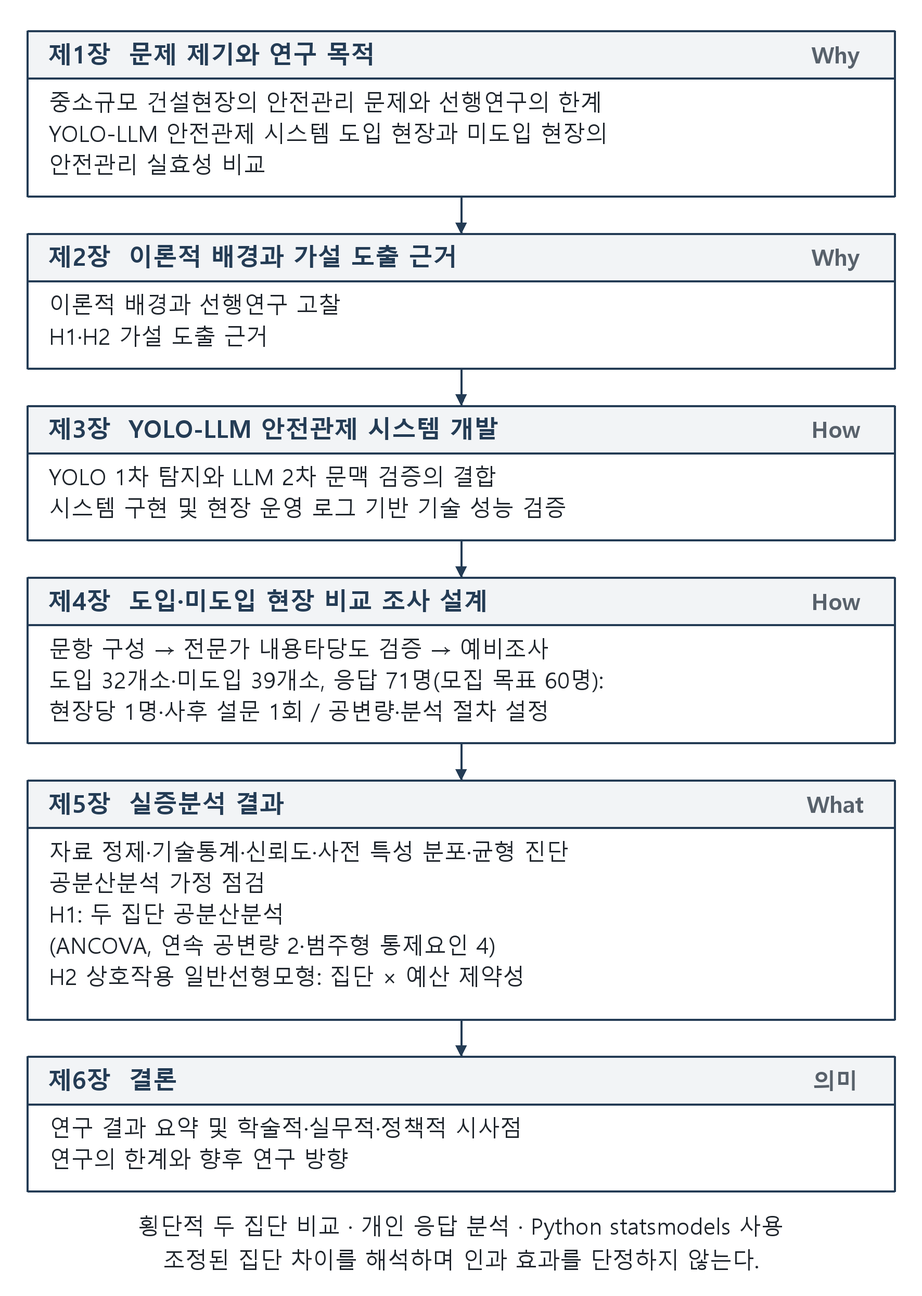
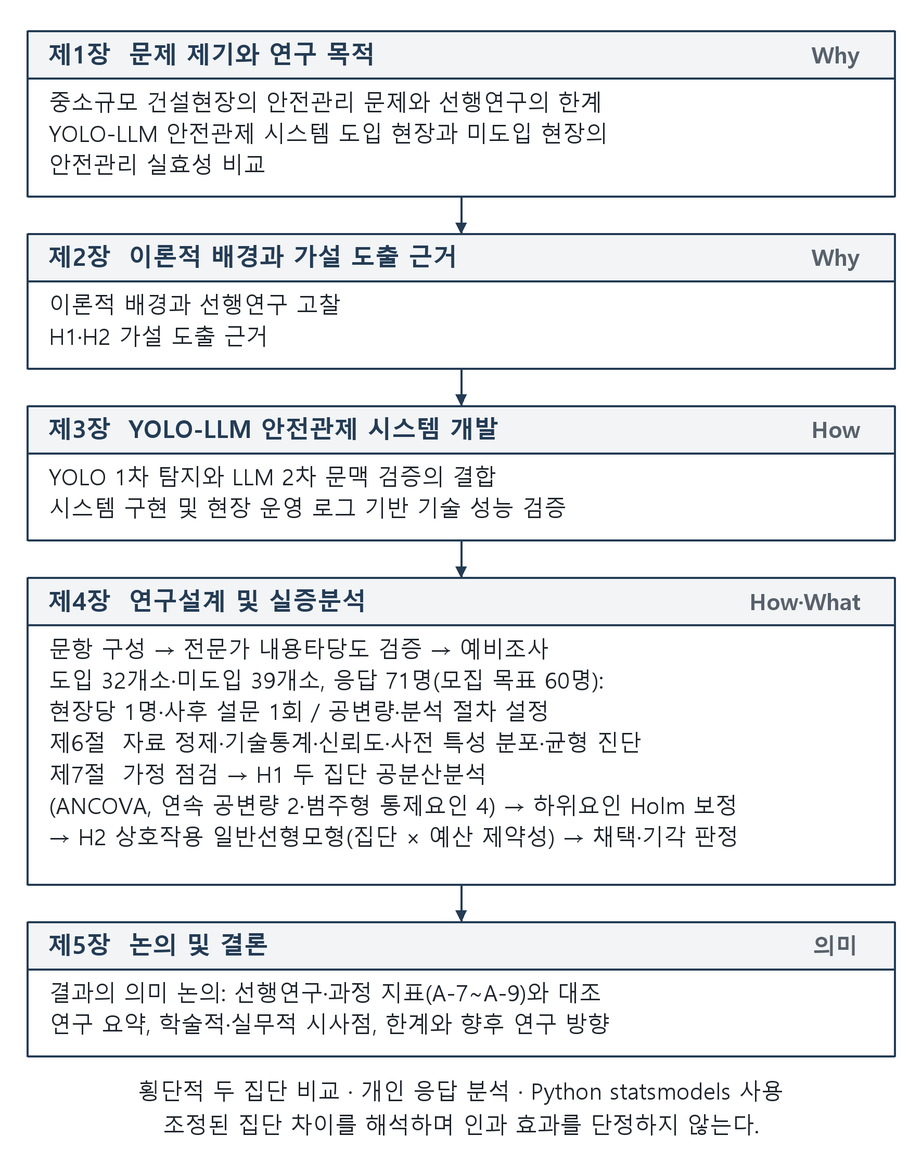
2026-10-24 지도 반영 4단계: 의미 논의 3건을 4장 제7절→5장 제1절로 이동, 결론 4,609→1,816자 압축, 4장 도입문 교체, 그림 1-1 5장 구조 재생성
- 04: 민감도 분석 원평균 대조·천장효과 추정·A-9 설계상 무차이 설명을 잘라내고 수치·채택 판정·통계 해석만 남김
- 05 제1절: 이동 3건을 기존 논의와 합쳐 두괄식 재배열(새 주장·인용 없음), 제2절 결론을 5요소 5문단으로 압축(Shadish·Podsakoff 인용, 시간적 우선성 한계 유지)
- figures/research: generate_research_figures.py 흐름도 5장 구조(4장 제6·7절, 5장 논의·결론), PNG·SVG 재생성
- 계획 문서 체크리스트 갱신. 남은 것: 단계 6 hwpx 전체 재조립(별도 지시)

Changed region(s): [[0.031, 0.0, 0.9622, 0.9892], [0.8691, 0.5874, 0.9312, 0.6492]]

diff --git a/01.docs/figures/research/generate_research_figures.py b/01.docs/figures/research/generate_research_figures.py
@@ -49,7 +49,7 @@ class Figure:
         self.im.save(OUT/(self.name+'.png'),dpi=(300,300))
 
 def flow():
-    f=Figure('figure_1-1_research_flow',2110,'연구의 흐름도')
+    f=Figure('figure_1-1_research_flow',1890,'연구의 흐름도')
     steps=[
       (50,270,'제1장  문제 제기와 연구 목적','Why',[
        '중소규모 건설현장의 안전관리 문제와 선행연구의 한계',
@@ -61,28 +61,26 @@ def flow():
       (660,220,'제3장  YOLO-LLM 안전관제 시스템 개발','How',[
        'YOLO 1차 탐지와 LLM 2차 문맥 검증의 결합',
        '시스템 구현 및 현장 운영 로그 기반 기술 성능 검증']),
-      (940,270,'제4장  도입·미도입 현장 비교 조사 설계','How',[
+      (940,500,'제4장  연구설계 및 실증분석','How·What',[
        '문항 구성 → 전문가 내용타당도 검증 → 예비조사',
        '도입 32개소·미도입 39개소, 응답 71명(모집 목표 60명):',
-       '현장당 1명·사후 설문 1회 / 공변량·분석 절차 설정']),
-      (1270,390,'제5장  실증분석 결과','What',[
-       '자료 정제·기술통계·신뢰도·사전 특성 분포·균형 진단',
-       '공분산분석 가정 점검',
-       'H1: 두 집단 공분산분석',
-       '(ANCOVA, 연속 공변량 2·범주형 통제요인 4)',
-       'H2 상호작용 일반선형모형: 집단 × 예산 제약성']),
-      (1720,220,'제6장  결론','의미',[
-       '연구 결과 요약 및 학술적·실무적·정책적 시사점',
-       '연구의 한계와 향후 연구 방향'])]
+       '현장당 1명·사후 설문 1회 / 공변량·분석 절차 설정',
+       '제6절  자료 정제·기술통계·신뢰도·사전 특성 분포·균형 진단',
+       '제7절  가정 점검 → H1 두 집단 공분산분석',
+       '(ANCOVA, 연속 공변량 2·범주형 통제요인 4) → 하위요인 Holm 보정',
+       '→ H2 상호작용 일반선형모형(집단 × 예산 제약성) → 채택·기각 판정']),
+      (1500,220,'제5장  논의 및 결론','의미',[
+       '결과의 의미 논의: 선행연구·과정 지표(A-7∼A-9)와 대조',
+       '연구 요약, 학술적·실무적 시사점, 한계와 향후 연구 방향'])]
     for i,(y,h,title,tag,lines) in enumerate(steps):
         f.box(45,y,1410,h)
         f.box(45,y,1410,78,PALE)
         f.text(78,y+53,title,40,True,color=NAVY)
-        f.text(1360,y+53,tag,36,True,color=GRAY,center=True)
+        f.text(1360 if len(tag)<=4 else 1310,y+53,tag,36,True,color=GRAY,center=True)
         for j,t in enumerate(lines): f.text(80,y+130+j*51,t)
         if i<len(steps)-1: f.line([(750,y+h),(750,steps[i+1][0])],arrow=True)
-    f.text(750,2010,'횡단적 두 집단 비교 · 개인 응답 분석 · Python statsmodels 사용',36,center=True)
-    f.text(750,2065,'조정된 집단 차이를 해석하며 인과 효과를 단정하지 않는다.',36,center=True)
+    f.text(750,1790,'횡단적 두 집단 비교 · 개인 응답 분석 · Python statsmodels 사용',36,center=True)
+    f.text(750,1845,'조정된 집단 차이를 해석하며 인과 효과를 단정하지 않는다.',36,center=True)
     f.save()
 
 def model():

diff --git a/01.docs/05_논의및결론.md b/01.docs/05_논의및결론.md
@@ -6,11 +6,15 @@
 
 H1의 집단 간 조정 평균 차이는 도입 집단이 미도입 집단보다 0.42점 높은 것으로 나타나(95% CI [0.06, 0.77]) H1은 지지되었으나, 신뢰구간 하한이 0에 가까워 차이의 크기는 불확실하다. 이동건(2024)과 Chong et al.(2023)의 기술 수용의도 연구는 도입 조건을 설명할 뿐이므로, 본 연구는 이를 실제 업무 성과를 직접 입증한 근거로 쓰지 않는다. 본 결과는 스마트 건설기술 활용과 안전성과의 관련성을 보고한 황병복(2026), 중소규모 적용 현장과 일반 현장을 대비해 사고예방 가능성을 보고한 류정·박인선(2025)과 방향이 같다. 다만 두 연구는 연구 대상(철도 건설현장·13개 중소규모 적용 현장과 본 연구의 기관 산하 조사대상 건설현장), 독립변수(활용 수준과 설치·정상 운용), 결과변수(안전성과·재해율과 개인 지각 업무 수준)가 본 연구와 다르다. 또한 두 연구와 달리 본 연구의 차이는 작고 불확실하며, 그 이유는 운용·측정·표본의 세 측면에서 찾을 수 있다.
 
-운용 측면에서 도입 응답자 32명 가운데 담당자 부재 시 위험을 자동 알림으로 알고 발생 직후 인지한다고 답한 응답자는 5명뿐이어서, 많은 도입 현장에서 시스템이 실제 인지 경로로 작동하지 않았을 수 있다. 측정 측면에서 Y는 현재 업무 수준에 대한 개인 지각이며, 대응 신속성·위험 통제력은 도입 집단의 5점 응답 비율이 높아 차이가 압축되었을 수 있다. 표본 측면에서 집단은 응답자가 선택한 현장 구분이며 응답과 현장을 개별 대조한 기록이 없고, 여성 응답자가 미도입 집단에만 있는 등 일부 범주의 비교가 외삽에 의존한다. ‘A-9 없음 × H1 있음’ 조합에서는 <표 4-6>에 따라 도입 집단의 호의 응답 가능성을 먼저 점검해야 한다. 도입 집단의 D 응답은 알림 전달 신속성(D-7)은 높게, 정상 작업 오탐이 드물다는 인식(D-6)은 가장 낮게 평가하여 시스템을 일률적으로 호의적으로 평가하지는 않았다. 그러나 시스템이 개입하는 인지 단계에서 발생 직후 알림으로 안다는 도입 응답자는 5명뿐이고 나머지는 다음 순찰 때(11명)나 다른 사람의 보고(12명)로 알며, 미도입 현장은 대부분(29명) 작업자·반장의 보고로 알기 때문에 두 집단의 인지 경로가 ‘알림 대 순찰’로 갈리지 않았다. 따라서 H1의 차이를 알림을 통한 인지 과정의 차이로 연결할 근거는 약하며 H1은 조건부로 해석해야 한다. A-9의 무차이는 시스템 밖 단계의 결과이므로 이 판단의 근거로 삼지 않는다. 도입 집단의 안전관리 실효성 점수가 높게 나타나더라도 그 차이는 관측된 여섯 특성을 조정한 뒤 남은 관련성이다. 척도 민감도·신뢰도, 공사비 구간별 규모 분포, 집단 불균형과 선정 편향, 기존 영상 인프라의 차이, 도입 기간과 알림 노출도 추가 설명이 될 수 있으나, 자료로 확인하지 않은 설명을 원인으로 확정하지 않는다. 다른 스마트 안전장비는 조사 대상 전 현장에 없음을 연구자가 확인하였으므로, 집단 차이가 다른 장비의 보유 차이에서 비롯되었을 가능성은 배제할 수 있다. 미도입 집단에 CCTV가 없는 현장이 섞여 있으므로 집단 차이를 기존 인프라와 LLM 추가 기능의 기여로 나누어 해석하지 않는다.
+운용 측면에서 도입 응답자 32명 가운데 담당자 부재 시 위험을 자동 알림으로 알고 발생 직후 인지한다고 답한 응답자는 5명뿐이어서, 많은 도입 현장에서 시스템이 실제 인지 경로로 작동하지 않았을 수 있다. 측정 측면에서 Y는 현재 업무 수준에 대한 개인 지각이며, 일부 하위요인은 천장효과로 차이가 압축되었을 수 있다. 표본 측면에서 집단은 응답자가 선택한 현장 구분이며 응답과 현장을 개별 대조한 기록이 없고, 여성 응답자가 미도입 집단에만 있는 등 일부 범주의 비교가 외삽에 의존한다.
+
+다섯 하위요인에서는 모두 도입 집단의 조정 평균이 높게 나타났으나, Holm 보정 후 유의한 영역은 위험 통제력(0.53점, 95% CI [0.18, 0.88])뿐이었다. 김현수(2026)의 관제 연구에서 다룬 오탐과 사건 검토 시간은 대응 및 업무 부담과, 이창남(2025)의 원격 모니터링 연구는 원격 파악·순찰부담 경감과 연결해 비교할 수 있지만, 본 연구의 자기보고 점수와 동일한 측정치는 아니다. Cvach(2012)의 경보 피로도 논의 역시 다른 업무 환경의 경보 대응 메커니즘을 설명하는 배경이다. 원격 파악과 순찰부담 경감의 차이는 원격 모니터링이 관리자의 원격 위험 인지와 순찰 의존도 경감을 지원한다는 이창남(2025)과 방향이 같지만, 다중 검정을 고려하면 통계적으로 확인되지 않았다. 김현수(2026)가 보고한 사건 검토 시간 단축과 불필요 출동 감소는 조기인지·대응 신속성과 연결되는데, 본 연구에서 두 영역의 차이는 작았다. 그 이유로는 두 영역이 단일 문항이라는 점, 지시 전달 소요시간(A-9)에서 두 집단의 분포가 비슷했다는 점, 그리고 천장효과를 들 수 있다. 대응 신속성과 위험 통제력은 도입 집단의 5점 응답 비율이 높아(<표 4-11>; 대응 신속성은 37.5%) 천장효과로 차이가 작게 추정되었을 수 있다. 또한 도입 응답자는 정상 작업 오탐이 드물다는 문항(D-6)을 D 문항 가운데 가장 낮게 평가하여, 오탐 억제가 확인 부담의 경감으로 충분히 이어지지 않았을 가능성도 남는다. 차이가 가장 뚜렷한 위험 통제력은 황병복(2026)과 류정·박인선(2025)이 다룬 안전성과·재해율과 같은 결과 측면에 가깝지만, 이 영역도 통제 조치의 실제 기록으로 확인되지 않은 자기보고라는 한계가 있다. 하위요인별 결과는 <표 2-2>의 시스템 기능–담당자 업무–안전관리 실효성 하위요인 연결에 따라 관련 기능의 확인 자료와 함께 검토하되, 그 연결이 B문항의 기능 측정을 뜻하지는 않는다. 원격 파악이나 순찰부담 경감의 지각 차이만으로 안전관리 인력의 대체를 주장할 수 없다.
+
+과정 지표와 대조하면 본 결과는 <표 4-6>의 ‘A-9 없음 × H1 있음’ 조합에 해당하며, 이 조합에서는 도입 집단의 호의 응답 가능성을 먼저 점검해야 한다. 다만 A-9는 관리자가 위험을 안 뒤 현장에 지시를 전달하는 단계를 묻는 문항이며, 본 시스템은 경보를 관리자에게 보낼 뿐 지시 전달 수단을 제공하지 않으므로 이 단계에서 집단 차이가 나타날 설계상 근거가 없다. 따라서 A-9의 ‘없음’은 시스템 효과가 없다는 증거가 아니라 예상된 결과이며, H1을 조건부로 해석하는 근거로도 삼지 않는다. 호의 응답 점검은 사전 지정 절차에 따라 보수적으로 수행한다. 도입 집단의 D 응답은 알림 전달 신속성(D-7)은 높게, 정상 작업 오탐이 드물다는 인식(D-6)은 가장 낮게 평가하여 시스템을 일률적으로 호의적으로 평가하지는 않았다. 그러나 시스템이 개입하는 인지 단계에서 발생 직후 알림으로 안다는 도입 응답자는 5명뿐이고 나머지는 다음 순찰 때(11명)나 다른 사람의 보고(12명)로 알며, 미도입 현장은 대부분(29명) 작업자·반장의 보고로 알기 때문에 두 집단의 인지 경로가 ‘알림 대 순찰’로 갈리지 않았다. 또한 제4장 제7절 제2항의 민감도 분석과 같은 완전사례에서 시스템 경로가 작동한 도입 현장 5곳의 안전관리 실효성 원평균은 3.95점, 작동하지 않은 27곳은 4.03점으로, 시스템이 실제 인지 경로로 작동한 현장이 더 높게 평가하지는 않았다. 따라서 H1의 집단 차이를 알림 경로의 작동으로 설명할 근거는 약하며, 이 점이 H1을 조건부로 해석하는 직접적인 이유이다.
+
+도입 집단의 안전관리 실효성 점수가 높게 나타나더라도 그 차이는 관측된 여섯 특성을 조정한 뒤 남은 관련성이다. 척도 민감도·신뢰도, 공사비 구간별 규모 분포, 집단 불균형과 선정 편향, 기존 영상 인프라의 차이, 도입 기간과 알림 노출도 추가 설명이 될 수 있으나, 자료로 확인하지 않은 설명을 원인으로 확정하지 않는다. 다른 스마트 안전장비는 조사 대상 전 현장에 없음을 연구자가 확인하였으므로, 집단 차이가 다른 장비의 보유 차이에서 비롯되었을 가능성은 배제할 수 있다. 미도입 집단에 CCTV가 없는 현장이 섞여 있으므로 집단 차이를 기존 인프라와 LLM 추가 기능의 기여로 나누어 해석하지 않는다.
 
 학술적으로는 같은 기관 산하 도입·미도입 현장 관리자를 공통 척도로 비교하여, 사전에 지정한 여섯 특성을 조정한 뒤에도 양(+)의 집단 차이가 남는다는 점을 확인하였다. 실무적으로는 차이가 작고 신뢰구간이 넓으며 시스템 경로가 작동했다고 답한 도입 현장이 적으므로, 시스템을 설치하는 것만으로 업무 수준의 차이를 기대하기보다 알림이 담당자 부재 시 실제 인지 경로가 되는지를 함께 관리해야 함을 보여 준다. 대책·제언은 두 가지이다. 첫째, 도입 현장에서 알림 수신 담당자와 확인·조치 절차를 지정하고, 자동 알림을 주된 인지 경로로 보고하지 않은 현장의 운용 설정과 수신 체계를 점검한다. 둘째, 응답과 현장의 연결 기록과 알림 확인 로그로 표본·측정을 보완한다(제2절).
-
-다섯 하위요인에서는 모두 도입 집단의 조정 평균이 높게 나타났으나, Holm 보정 후 유의한 영역은 위험 통제력(0.53점, 95% CI [0.18, 0.88])뿐이었다. 김현수(2026)의 관제 연구에서 다룬 오탐과 사건 검토 시간은 대응 및 업무 부담과, 이창남(2025)의 원격 모니터링 연구는 원격 파악·순찰부담 경감과 연결해 비교할 수 있지만, 본 연구의 자기보고 점수와 동일한 측정치는 아니다. Cvach(2012)의 경보 피로도 논의 역시 다른 업무 환경의 경보 대응 메커니즘을 설명하는 배경이다. 원격 파악과 순찰부담 경감의 차이는 원격 모니터링이 관리자의 원격 위험 인지와 순찰 의존도 경감을 지원한다는 이창남(2025)과 방향이 같지만, 다중 검정을 고려하면 통계적으로 확인되지 않았다. 김현수(2026)가 보고한 사건 검토 시간 단축과 불필요 출동 감소는 조기인지·대응 신속성과 연결되는데, 본 연구에서 두 영역의 차이는 작았다. 그 이유로는 두 영역이 단일 문항이고 대응 신속성은 도입 집단의 37.5%가 5점에 응답한 천장효과, 그리고 지시 전달 소요시간(A-9)에서 두 집단의 분포가 비슷했다는 점을 들 수 있다. 또한 도입 응답자는 정상 작업 오탐이 드물다는 문항(D-6)을 D 문항 가운데 가장 낮게 평가하여, 오탐 억제가 확인 부담의 경감으로 충분히 이어지지 않았을 가능성도 남는다. 차이가 가장 뚜렷한 위험 통제력은 황병복(2026)과 류정·박인선(2025)이 다룬 안전성과·재해율과 같은 결과 측면에 가깝지만, 이 영역도 통제 조치의 실제 기록으로 확인되지 않은 자기보고라는 한계가 있다. 하위요인별 결과는 <표 2-2>의 시스템 기능–담당자 업무–안전관리 실효성 하위요인 연결에 따라 관련 기능의 확인 자료와 함께 검토하되, 그 연결이 B문항의 기능 측정을 뜻하지는 않는다. 원격 파악이나 순찰부담 경감의 지각 차이만으로 안전관리 인력의 대체를 주장할 수 없다.
 
 H2의 상호작용은 B=0.16(95% CI [-0.26, 0.59])으로 예상과 같은 양(+)의 방향이었으나 신뢰구간이 0을 넓게 포함하여 지지되지 않았다. 자원 제약 조건을 검토하는 배경은 이준호(2024)·윤영석(2025)과 Zhou et al.(2023)의 비용·도입 여건 논의, Zeschky et al.(2011)과 Radjou et al.(2012)의 절약형 혁신 관점이며, 이들 논의는 본 연구의 상호작용을 직접 검증한 선행 결과가 아니다. 추정 방향은 자원이 부족한 조건에서 저비용 구성의 상대적 이점이 클 수 있다는 이들 논의와 어긋나지 않지만, 본 자료는 그 방향을 확인할 만큼 정밀하지 않았다. W는 두 집단 모두 넓은 범위(도입 1.50∼5.00, 미도입 1.00∼5.00)에 퍼져 분산이 부족하지 않았으나, 70명 표본에서 상호작용 추정의 표준오차(0.21)가 추정치보다 커서 상호작용을 검출하기에 검정력이 부족했을 수 있다. 같은 산식으로 이 표본에서 80% 검정력으로 검출할 수 있는 최소 상호작용은 0.59로, 관찰값 0.16의 세 배를 넘는다. 또한 미도입 집단에서만 W가 높을수록 Y가 낮아지는 관계(r=-0.36)가 나타나고 도입 집단에서는 관계가 거의 없어(r=-0.01), 양(+)의 상호작용 추정치는 주로 미도입 집단의 기울기에서 비롯되었다. 미도입 집단에서 관찰된 이 음(−)의 관계는 장비 유무로 설명할 수 없으며, 예산이 빠듯한 현장의 인력·순찰 여력 같은 다른 자원 부족이나 두 척도에 함께 작용한 응답 성향으로 설명할 가능성이 남는다. H2 모형의 이분산 신호도 상호작용의 SE와 p를 근사로 읽게 한다. 사후 점검으로 HC3 강건 표준오차를 적용해도 상호작용은 95% CI [-0.45, 0.78], p=.595로 H2가 지지되지 않는다는 결론은 바뀌지 않았다. 다만 W가 평균과 평균+1SD일 때의 조건부 집단 차이(0.38점·0.56점)는 HC3 기준 95% CI가 각각 [-0.03, 0.79]·[-0.12, 1.24]로 0을 포함하므로, 이 두 수준의 차이도 확정된 결과로 읽지 않는다. 유의하지 않은 결과를 상호작용이 없다는 증거로 단정하지는 않는다. W는 조사 시점의 개인 지각이므로 도입·지원 경험의 사후 영향을 배제하지 못하며, 이 분석은 객관적 예산의 효과나 인과적 조절효과를 추정한 것도 아니다. H2 결과의 의미는 현재 자료로는 저비용 구성이 예산 제약이 큰 현장에서 더 큰 차이와 관련된다는 적용 조건을 도출할 수 없다는 데 있다. 다만 예산 제약 지각이 큰 미도입 현장에서 관찰된 낮은 실효성 지각은 도입 현장에서 나타나지 않았다. 감당 가능한 구성의 상대적 효용을 말하는 절약형 혁신 논리는 대안 장비의 유무를 전제하지 않아 다른 스마트 안전장비가 없는 본 표본에도 적용할 수 있으며, 이에 비추면 이 양상은 저비용 구성이 예산 제약의 영향을 완충할 가능성을 시사하지만, 상호작용이 통계적으로 확인되지 않았고 횡단 자기보고 자료이므로 후속 검증이 필요한 가설이다. 대책·제언으로서 후속 검증에서는 도입 전 객관 예산과 지원 이력을 구분해 측정해야 한다. 현 결과로는 예산 부족 현장의 우선배치나 지원제도 개정 필요성을 도출하지 않는다.
 
@@ -22,22 +26,12 @@ H2의 상호작용은 B=0.16(95% CI [-0.26, 0.59])으로 예상과 같은 양(+)
 
 ## 제2절 결론
 
-본 연구의 목적은 중소규모 건설현장을 위한 YOLO-LLM 안전관제 시스템을 개발하고, 도입 현장과 미도입 현장의 안전관리 실효성 차이를 실증적으로 검증하는 데 있다. 이를 위해 범용 PC와 기존 카메라에서 YOLO 1차 탐지와 LLM 2차 검증을 결합한 시스템을 개발하고, A공사(공공기관) 경기지역본부 산하 두 집단 관리자의 응답을 공분산분석과 상호작용 일반선형모형으로 비교하였다. 응답 71명(도입 32개소·미도입 39개소, 현장당 1명)을 분석하였다.
+본 연구는 중소규모 건설현장을 위해 범용 PC와 기존 카메라에서 YOLO 1차 탐지와 LLM 2차 검증을 결합한 안전관제 시스템을 개발하고, A공사(공공기관) 경기지역본부 산하 도입·미도입 현장 관리자 71명(현장당 1명)의 응답을 공분산분석과 상호작용 일반선형모형으로 비교하였다. 여섯 특성을 조정한 뒤 도입 집단의 안전관리 실효성은 미도입 집단보다 0.42점 높게 나타나 H1은 지지되었으나(95% CI [0.06, 0.77]) 차이의 크기는 불확실하였고, 하위요인 가운데 Holm 보정 후 유의한 영역은 위험 통제력뿐이었다. 예산 제약성 지각에 따른 상호작용(H2)은 B=0.16으로 지지되지 않았으며, 과정 지표인 지시 전달 소요시간(A-9)에는 집단 차이가 없었다.
 
-H1은 도입집단의 안전관리 실효성이 공변량 통제 후에도 미도입집단보다 높을 것이라는 가설이고, H2는 그 차이가 예산 제약성을 크게 지각하는 응답자일수록 클 것이라는 가설이다. 제3장의 운영 로그 평가에서 후보 조건부 2차 필터는 라벨링 가능한 1차 후보 878건 가운데 실제 위험 44건 중 39건을 유지하여 조건부 재현율 0.886, 정확도 0.979를 보였으며, 이 결과는 접근 위험 2종의 1차 후보에 한정된다. RAG 사례 비교에서는 FP가 17건에서 7건으로, TP가 8건에서 6건으로 함께 줄었다. 실증분석에서는 여섯 특성을 조정한 뒤 도입 집단의 안전관리 실효성이 미도입 집단보다 0.42점 높게 나타나 H1은 지지되었다(95% CI [0.06, 0.77], 부분 η²=0.086). 다만 신뢰구간 하한이 0에 가깝고 사후 강건성 점검(제4장 제7절 <표 4-12> 패널 E)에서 p가 .013∼.058로 움직여 차이의 크기는 불확실하다. 다섯 하위요인은 모두 도입 집단이 높은 방향이었으나 Holm 보정 후 유의한 영역은 위험 통제력뿐이었다. H2의 상호작용은 양(+)의 방향이었으나 B=0.16(95% CI [-0.26, 0.59])으로 불확실하여 지지되지 않았다. 과정 지표인 지시 전달 소요시간에는 집단 차이가 없었다(제4장 <표 4-6>의 ‘A-9 없음 × H1 있음’ 조합).
+제1절에서 논의한 바와 같이 이 결과에서 읽을 요점은 세 가지이다. 도입 집단이 높게 나타난 방향은 선행연구와 같지만 차이는 작고 유의수준 경계 근처에 있다. 또한 자동 알림으로 위험을 인지한다는 도입 응답자가 적고 이들 현장이 더 높게 평가하지도 않아, 지각 차이를 알림 경로의 작동으로 설명할 근거가 약하며 호의 응답 가능성을 배제하지 못한다. 그리고 제3장의 기술 지표는 경보 품질의 근거일 뿐이므로 관리자가 지각한 안전관리 실효성과 구분해 읽어야 한다.
 
-이 결과는 기술적 경보 품질과 관리자가 지각한 안전관리 실효성을 구분하여 해석해야 한다. 도입 집단이 높게 나타난 방향은 스마트 건설기술 활용과 안전성과의 관련성을 보고한 황병복(2026), 적용 현장의 사고예방 가능성을 보고한 류정·박인선(2025)과 같다. 그러나 차이의 크기는 작고 불확실하였으며, 도입 응답자 32명 가운데 시스템이 담당자 부재 시 인지 경로로 작동했다고 답한 응답자가 5명뿐이었다. 따라서 이 차이를 알림 경로를 통한 업무 과정의 차이로 연결할 근거는 약하며, 도입 집단의 호의 응답 가능성을 배제하지 못한다. 선행연구와의 상세한 대조와 대안 설명은 제1절에 제시하였다.
+실무적으로는 시스템을 설치하는 것만으로 업무 수준의 차이를 기대하기보다 알림이 실제 인지 경로가 되도록 운용을 관리해야 한다. 도입 현장은 알림 수신 담당자와 담당자 부재 시의 확인·조치 절차를 지정하고, 자동 알림을 주된 인지 경로로 보고하지 않은 현장의 운용 설정과 수신 체계를 점검해야 한다. 차이가 확인된 위험 통제력과 관련해서는 알림 수신 뒤 시정·작업중지 등 통제 조치까지 이어지는 확인·후속 조치 기록부터 점검하는 것이 타당하다. 다만 차이가 작고 비용·운영 자료가 없으므로 인력 대체·비용효율·지원 우선순위는 주장하지 않는다. 학술적으로는 기술 성능과 관리자가 지각한 실효성을 구분하고 운용 실태(A-7·A-8)와 과정 지표(A-9)를 함께 수집하는 비교 틀을 제시하여, 지각 점수의 차이가 실제 알림 경로·지시 전달 과정의 차이와 일치하지 않음을 드러냈다.
 
-실무적 시사점은 결과로 확인된 업무 영역에서 시스템의 활용 범위를 정하는 데 있다. 하위요인 가운데 차이가 확인된 영역은 시정·작업중지 등 통제 조치의 시행과 관련된 위험 통제력이므로, 도입 현장의 점검은 알림 수신 뒤 통제 조치까지 이어지는 확인·후속 조치 기록에서 시작하는 것이 타당하다. 또한 자동 알림을 주된 인지 경로로 보고한 도입 응답자가 적었으므로, 시스템을 설치한 현장에서도 알림 수신 담당자와 담당자 부재 시의 확인 절차를 지정하여 시스템이 실제 인지 경로가 되도록 운용해야 한다. H1의 차이가 작고 불확실하며 비용·운영 자료도 확보하지 못하였으므로, 지각 차이만으로 적용 대상 현장의 조건이나 인력 대체·비용효율·지원 우선순위를 주장하지 않는다.
+본 연구의 한계는 먼저 사전 측정이 없는 횡단 설계에 있다. 인과관계의 조건 가운데 시간적 우선성을 확인할 수 없고, 비무작위 집단 선정에 따른 미측정 선정 요인은 공변량 조정 후에도 남는다(Shadish, Cook, & Campbell, 2002). 현장당 관리자 1명의 자기보고는 사회적 바람직성과 동일방법편의, 도입 집단의 호의 응답을 피하기 어렵다(Podsakoff et al., 2003). 미도입 집단에 CCTV가 없는 현장이 섞여 있어 기존 영상 인프라와 LLM 추가 기능의 기여를 분리할 수 없고, 집단은 응답자가 선택한 현장 구분이며 응답과 현장을 개별 대조한 기록이 없다. 특정 기관·지역의 표본이어서 일반화가 어렵고, 검출 가능 최소 효과가 관찰값보다 커서 H1·H2 모두 검정력이 충분하지 않았다. 내용타당도 평정과 예비조사를 실시하지 않았으며, 기술평가는 운용 초기 연구자 1인의 비눈가림 라벨에 근거하고 운용 중 가중치와 모델 판본이 갱신되었다.
 
-학술적 시사점은 기술 성능과 관리자가 지각한 안전관리 실효성을 구별해 비교하는 틀을 제시한 데 있다. 같은 기관 산하 도입·미도입 현장 관리자를 공통 척도로 비교하고 사전에 지정한 응답자·현장 특성을 조정한 결과 양(+)의 집단 차이가 남았다는 점은, 기술 지표와 별도로 현장 관리자의 업무 수준 지각을 비교하는 틀이 작동할 수 있음을 보여 준다. 동시에 운용 실태 지표(A-7·A-8)와 과정 지표(A-9)를 함께 수집했기 때문에, 지각 점수의 차이가 실제 알림 경로와 지시 전달 과정의 차이와 일치하지 않는다는 점을 드러낼 수 있었다. H2 결과는 도입 전 객관 예산과 조사 시점의 개인 지각을 구별하는 후속 검증의 근거로 활용할 수 있다.
-
-본 연구의 한계는 먼저 횡단 설계에 있다. 사전 측정이 없는 단일 시점 비교이므로 인과관계의 조건 가운데 시간적 우선성을 확인할 수 없고, 비무작위 집단 선정에 따른 미측정 선정 요인은 공변량 조정 후에도 남는다(Shadish, Cook, & Campbell, 2002). 또한 미도입 집단에 CCTV가 없는 현장이 포함되어 있어, 집단 차이에서 기존 영상 인프라와 LLM 추가 기능의 기여를 분리할 수 없다. 다만 본 시스템 외의 다른 스마트 안전장비는 조사 대상 전 현장에 없음을 연구자가 확인하였으므로, 비교 조건의 차이는 본 시스템과 기존 CCTV의 보유·운용 여부로 한정된다.
-
-측정과 비교 조건에도 한계가 있다. 현장당 관리자 1명의 자기보고는 사회적 바람직성과 동일방법편의를 피하기 어렵고(Podsakoff et al., 2003), 현장의 객관적 안전관리 실효성을 대표하지 못한다. 또한 미도입 집단의 비교 기준 부재와 도입 집단의 엄격해진 평가 기준은 차이를 줄일 수 있는 반면, 연구자와의 관계를 의식한 도입 집단의 후한 응답은 차이를 키울 수 있다. A-7∼A-9를 함께 묻도록 설계하여 이를 부분적으로 보완하였으나, 지각 점수에서 이러한 편향을 완전히 분리하지는 못한다. 과정 지표로 지정한 A-9는 위험을 안 뒤 지시를 전달하는 단계를 묻는데, 본 시스템은 이 단계에 관여하는 기능이 없어 집단 차이가 나타나기 어려운 지표였고, 시스템이 개입하는 발생 후 인지 단계는 A-8의 보기 선택으로만 확인하였다. 기술평가도 운용 초기 가중치 기간에 수집한 접근 위험 2종의 1차 후보에 대한 연구자 1인의 비눈가림 라벨에 근거한다. 전문가 필수성 평정(CVR)과 두 집단 인지면접·예비조사를 실시하지 않았으므로, 연구자 수정·개발 척도의 내용타당도와 두 집단이 문항을 같은 뜻으로 해석했는지는 확인되지 않았고 측정 근거는 내적 일관성과 탐색적 요인분석의 1요인 구조에 그친다. 기존 CCTV 보유·원격 열람, 공종, 안전관리 담당 인력을 현장 단위로 수집하지 않아 이를 집단 차이의 대안 설명으로 점검하지 못하였다.
-
-운용 기간 중에는 1차 검출 가중치를 갱신하였고, 2차 검증 모델·프롬프트 판본도 갱신되었으며 일부 카메라에는 교정 카드가 적용되었다. 운용 설정은 전 현장에 같아 현장 간 판본 차이는 없지만, 교체 시점(2026년 9월)이 응답 기준기간(응답일 직전 1개월)과 겹칠 수 있어 응답자가 평가한 기간의 1차 검출 성능을 단일 판본으로 특정할 수 없다. 검출 대상 범주가 같은 가중치 교체였으므로 집단 구분에는 영향이 없다고 본다. 도입 요건의 3개월 기준도 설치 후 2개월 안에 초기 설정과 적응이 끝난다는 가정에 기대므로, 적응이 더 오래 걸린 현장에서는 기준기간의 지각이 안정된 운용 상태를 반영하지 못했을 수 있다.
-
-표본과 분석 결과에도 한계가 있다. 유효 응답 71명(도입 32명·미도입 39명)은 특정 기관·지역의 표본이므로 결과를 다른 현장으로 일반화하기 어렵다. 집단별 30∼40명 규모에서 표준오차로 역산한 검출 가능 최소 효과(80% 검정력, 양측 α=.05)는 H1의 집단 차이 0.50점, H2의 상호작용 0.59이다. 관찰된 H1 차이 0.42점은 이보다 작아 H1의 지지는 유의수준 경계 근처의 결과이며, 사후 점검에서도 역할 기타 응답자를 제외한 조건에서 p=.058로 나타났다. H2는 이 표본으로 작은 상호작용을 배제할 수 없다. 최소 관심 효과크기와 목표 검정력에 근거한 사전 검정력 산정은 수행하지 않았다. 분석 결과에서는 첫째, 집단은 응답자가 설문 첫 질문에서 선택한 현장 구분이다. 연구자가 설치·운용 상태를 아는 현장에 설문을 안내하였으나 응답과 현장을 개별 대조한 별도 기록은 없으므로, 분기 선택의 오류가 있었다면 이를 자료로 확인할 수 없다. 둘째, 여성 응답자 6명이 모두 미도입 집단이고 일부 역할·공사비 구간의 응답자가 적어, 이 범주에 속한 응답자에 대한 집단 비교는 모형의 가산 가정에 따른 외삽에 의존한다. 셋째, 시스템 경로가 작동하지 않은 도입 현장을 제외한 사전 지정 민감도 분석은 남은 도입 사례가 5명뿐이어서 주 결과를 확인하거나 반박할 정보를 주지 못하였다. 넷째, H2의 상호작용 추정치는 표준오차가 커서 불확실하였고 모형에 이분산 신호가 있어, 상호작용을 검출하기에 표본이 충분했는지 확인하지 못하였다. 다섯째, 조사 대상 전 현장에 다른 스마트 안전장비가 없으므로, 미도입 집단에서 관찰된 예산 제약 지각과 실효성 지각의 음(−)의 관계는 장비 유무로 설명할 수 없고 다른 자원 부족과 응답 성향 가운데 어느 쪽인지 가릴 수 없다.
-
-향후 연구는 다른 기관·공종·지역으로 현장과 응답자를 넓히고, 집단 매칭과 도입 전후 반복 측정으로 선정 편향과 시간적 선후관계를 보완해야 한다. 기존 CCTV 운용 여부를 설계 단계에서 구분하고, 위험 발생부터 관리자 인지까지의 시간을 알림 발송·확인 로그로 측정해 과정 지표로 삼으며, 조치 기록과 재해·아차사고 자료처럼 응답자 지각에 의존하지 않는 객관 기록을 설문 응답과 연결하면, 인프라와 추가 기능의 기여 및 지각과 실제 대응의 관계를 함께 검토할 수 있다. 충분한 사전 검정력을 확보하고 다른 스마트 안전장비를 보유한 현장까지 표본에 포함하여, 객관 예산과 개인 지각을 구별한 상호작용 검증도 필요하다.
+향후 연구는 다른 기관·공종·지역으로 현장과 응답자를 넓히고, 집단 매칭과 도입 전후 반복 측정으로 선정 편향과 시간적 선후관계를 보완해야 한다. 기존 CCTV 운용 여부를 설계 단계에서 구분하고, 위험 발생부터 관리자 인지까지의 시간을 알림 발송·확인 로그로 측정해 과정 지표로 삼으며, 조치 기록과 재해·아차사고 자료 같은 객관 기록을 설문 응답과 연결해야 한다. 충분한 사전 검정력을 확보하고 객관 예산과 개인 지각을 구별한 상호작용 검증도 필요하다.

diff --git a/03.plan/README.md b/03.plan/README.md
@@ -17,7 +17,7 @@ YYMMDD_HHMM_플랜명.md
 
 | 파일 | 목적 | 상태 |
 |---|---|---|
-| [../05. 교수님 지도/261024_1700 논문지도 핵심요약 및 수정과제.md](../05.%20교수님%20지도/261024_1700%20논문지도%20핵심요약%20및%20수정과제.md) | 2026-10-24 지도 반영: 6장→5장 구조 전환(4·5장 합장, 6장→5장 논의·결론, '아키텍처' 용어 교체) 지도 기록+실행 계획서. 사용자 지시로 지도 폴더에 계획을 함께 둠 | 🔄 단계 1~3·5 완료(2026-10-25), 단계 4(의미 논의 이동·결론 압축)·6(hwpx 재조립) 대기 |
+| [../05. 교수님 지도/261024_1700 논문지도 핵심요약 및 수정과제.md](../05.%20교수님%20지도/261024_1700%20논문지도%20핵심요약%20및%20수정과제.md) | 2026-10-24 지도 반영: 6장→5장 구조 전환(4·5장 합장, 6장→5장 논의·결론, '아키텍처' 용어 교체) 지도 기록+실행 계획서. 사용자 지시로 지도 폴더에 계획을 함께 둠 | 🔄 단계 1~5 완료(2026-10-25), 단계 6(hwpx 전체 재조립) 지시 대기 |
 | [261008_0655_hwpx_김정년양식_이관_계획.md](261008_0655_hwpx_김정년양식_이관_계획.md) | 김정년 양식 기준 원본 위에 윤혁 논문 전체를 조립하는 HWPX 이관 계획: 0단계 사용자 결정 7건(감사의 글·초록·표지·들여쓰기·참고문헌 7분류·부록 상자·직접 수정분), 1단계 대조·양식 프로파일, 2단계 조립기 프로파일 주입, 3단계 메인 단독 조립·COM·PDF·목차 검증 | ✅ 완료(2026-10-08) — 산출물 `00. hwpx/261008_0819_…김정년양식이관본.hwpx`, 증거는 계획서 진행 기록 |
 | [261024_0850_설문응답_정리_분석_원고반영_계획.md](261024_0850_설문응답_정리_분석_원고반영_계획.md) | 설문 응답 xlsx(73건) 원본 보존 → 별도 정리본(원자료 통합·코딩·분석자료·코드북·빈도·검토메모) 생성(Task A) → 04장 제5절 설계대로 Type III ANCOVA·Holm·H2 상호작용 분석(Task B) → 승인 후 5장·6장·초록 `실험전`/`[DATA PENDING]` 채움(Task C). Orca Run `run_7ca42b0b0011`, Worker opus | ✅ 2026-10-24 A∼J 완료. 응답 71명 최종 확정, 통계 도구 statsmodels 확정, 5·6장 자리표시 0건, 4장 확정 필요 0건, 4·5·6장 정합. 남은 것: 연구윤리 심의 여부 확인, 02·03·07의 문헌 마커, 커밋, hwpx 조립 |
 | [261024_1519_사용자편집본_기준_조립_계획.md](261024_1519_사용자편집본_기준_조립_계획.md) | 사용자가 한글에서 직접 고친 1443본(표 병합 7·열폭 6·셀 정렬·줄간격·쪽 나눔)을 재조립 후에도 유지하려고, 기존 `patch_from_fresh.py`(사용자본 기준 + MD 변경분 반입)를 보강해 표준 경로로 삼음 | ✅ 2026-10-24 완료 — `00. hwpx/261024_1536_…_사용자편집기준본.hwpx`(140쪽, 1443본과 서식·표 차이 0) |

diff --git a/05. 교수님 지도/261024_1700 논문지도 핵심요약 및 수정과제.md b/05. 교수님 지도/261024_1700 논문지도 핵심요약 및 수정과제.md
@@ -221,8 +221,8 @@ grep -n "제5장" 01.docs/*.md             → 전 건이 '논의 및 결론'을
 - [x] ★1~★8 결정(2026-10-25 권고안 확정; ★3 '시스템 구조'는 교수님 확인 전 잠정)
 - [x] 단계 1 — 00_목차.md 목차·표 목차·그림 목차 갱신, 03.plan/README.md 색인 한 줄 (2026-10-25)
 - [x] 단계 2 — 파일 합치기/개명, 5장 절→항 강등, 6장→5장, 결과 종합을 4장 제7절 제5항으로 (2026-10-25, Worker 헤딩 26/26 목차 일치)
-- [x] 단계 3 — <표 5-n>→<표 4-(n+6)> 41건, 제6장→제5장 11건, 제5장 참조 22건 맥락별, 신규 4장 내부 '제4장' 15건, 연결문 4곳, <표 1-2>, <그림 1-1> Mermaid (2026-10-25; grep '제6장'·'<표 5-' 0건, 날짜 붙은 이력 `설문항목_작업이력.md`·07 주석은 의도적으로 보존. **<그림 1-1> PNG 재생성은 단계 6으로 이월**)
-- [ ] 단계 4 — 4장 제7절에서 의미 논의 문장 분리(목록 확인 후 이동, 채택·기각 판정은 4장에 남김), 5장 논의 통합, 결론 2쪽 압축, 3·4장 도입 문단. ('아키텍처' 7건 교체는 2026-10-25 완료 ✅)
+- [x] 단계 3 — <표 5-n>→<표 4-(n+6)> 41건, 제6장→제5장 11건, 제5장 참조 22건 맥락별, 신규 4장 내부 '제4장' 15건, 연결문 4곳, <표 1-2>, <그림 1-1> Mermaid (2026-10-25; grep '제6장'·'<표 5-' 0건, 날짜 붙은 이력 `설문항목_작업이력.md`·07 주석은 의도적으로 보존. <그림 1-1> PNG·SVG는 `figures/research/generate_research_figures.py`를 5장 구조로 고쳐 2026-10-25 재생성 완료 ✅)
+- [x] 단계 4 — 사용자 확인(2026-10-25) 후 의미 논의 3건을 5장 제1절로 이동(민감도 분석 원평균 대조·천장효과·A-9 설계상 무차이), 5장 논의 통합(5,683→6,082자), 결론 4,609→1,816자 5문단, 4장 도입 첫 문장 교체, '아키텍처' 7건 교체. 수치·마커 불변. 남은 검토: 5장 제1절 '학술·실무 함의' 문단이 결론 ③과 겹침, 9행·13행의 '인지 5명' 중복
 - [x] 단계 5 — CLAUDE.md·디펜스논리·defense-feedback·05-참조자료·06-일정·cross-chapter-consistency·규칙 파일 5종·MEMORY.md (2026-10-25). 06-일정의 '설문 미실시' 등 상태 서술은 낡았으나 번호만 고침 — 별도 갱신 과제
 - [ ] 단계 6 — hwpx 전체 재조립(별도 지시), 기준본 패치, 전 표 PDF 검증, 목차 쪽수
 - [ ] 각 단계 커밋

diff --git a/log.md b/log.md
@@ -1,3 +1,9 @@
+261025_183016 : 01.docs/05_논의및결론.md 수정
+261025_183000 : 01.docs/05_논의및결론.md 수정
+261025_182857 : 01.docs/03_시스템개발.md 수정, 01.docs/04_연구설계및실증분석.md 수정
+261025_182845 : 01.docs/figures/research/figure_1-1_research_flow.png 수정, 01.docs/figures/research/figure_1-1_research_flow.svg 수정, 01.docs/figures/research/generate_research_figures.py 수정
+261025_182820 : 01.docs/figures/research/figure_1-1_research_flow.png 수정, 01.docs/figures/research/figure_1-1_research_flow.svg 수정, 01.docs/figures/research/generate_research_figures.py 수정
+261025_181023 : 01.docs/05_실증분석결과.md 삭제, 01.docs/설문결과/~$중소규모 건설현장을 위한 YOLO-LLM 안전관제 시스템 개발 및 실증 연구(응답).xlsx 삭제
 261025_180954 : 03.plan/README.md 수정, 05. 교수님 지도/261024_1700 논문지도 핵심요약 및 수정과제.md 수정, MEMORY.md 수정
 261025_180846 : 01.docs/00_목차.md 수정, 01.docs/설문항목_작업이력.md 수정
 261025_180826 : 01.docs/07_참조번호목록.md 수정, 01.docs/부록1_설문지_양식.md 수정

diff --git a/01.docs/03_시스템개발.md b/01.docs/03_시스템개발.md
@@ -1,6 +1,6 @@
 # 제3장 YOLO-LLM 하이브리드 안전관제 시스템 개발
 
-> 본 장은 연구자가 직접 개발한 AI CCTV Viewer(YOLO-LLM 하이브리드 안전관제 시스템)의 개발 목적·설계 원리·구현·성능 검증을 서술한다. 이 내용은 제4장의 도입 집단 전용 참고 문항(Part D)의 근거를 이룬다.
+> 본 장은 연구자가 직접 개발한 AI CCTV Viewer(YOLO-LLM 하이브리드 안전관제 시스템)를 개발 목적과 요구사항에서 출발해 어떤 설계 원리로 구현하고 성능을 어떻게 검증하였는지 서술한다. 이 내용은 제4장의 도입 집단 전용 참고 문항(Part D)의 근거를 이룬다.
 
 ## 제1절 시스템 개발 방향 및 요구사항
 
